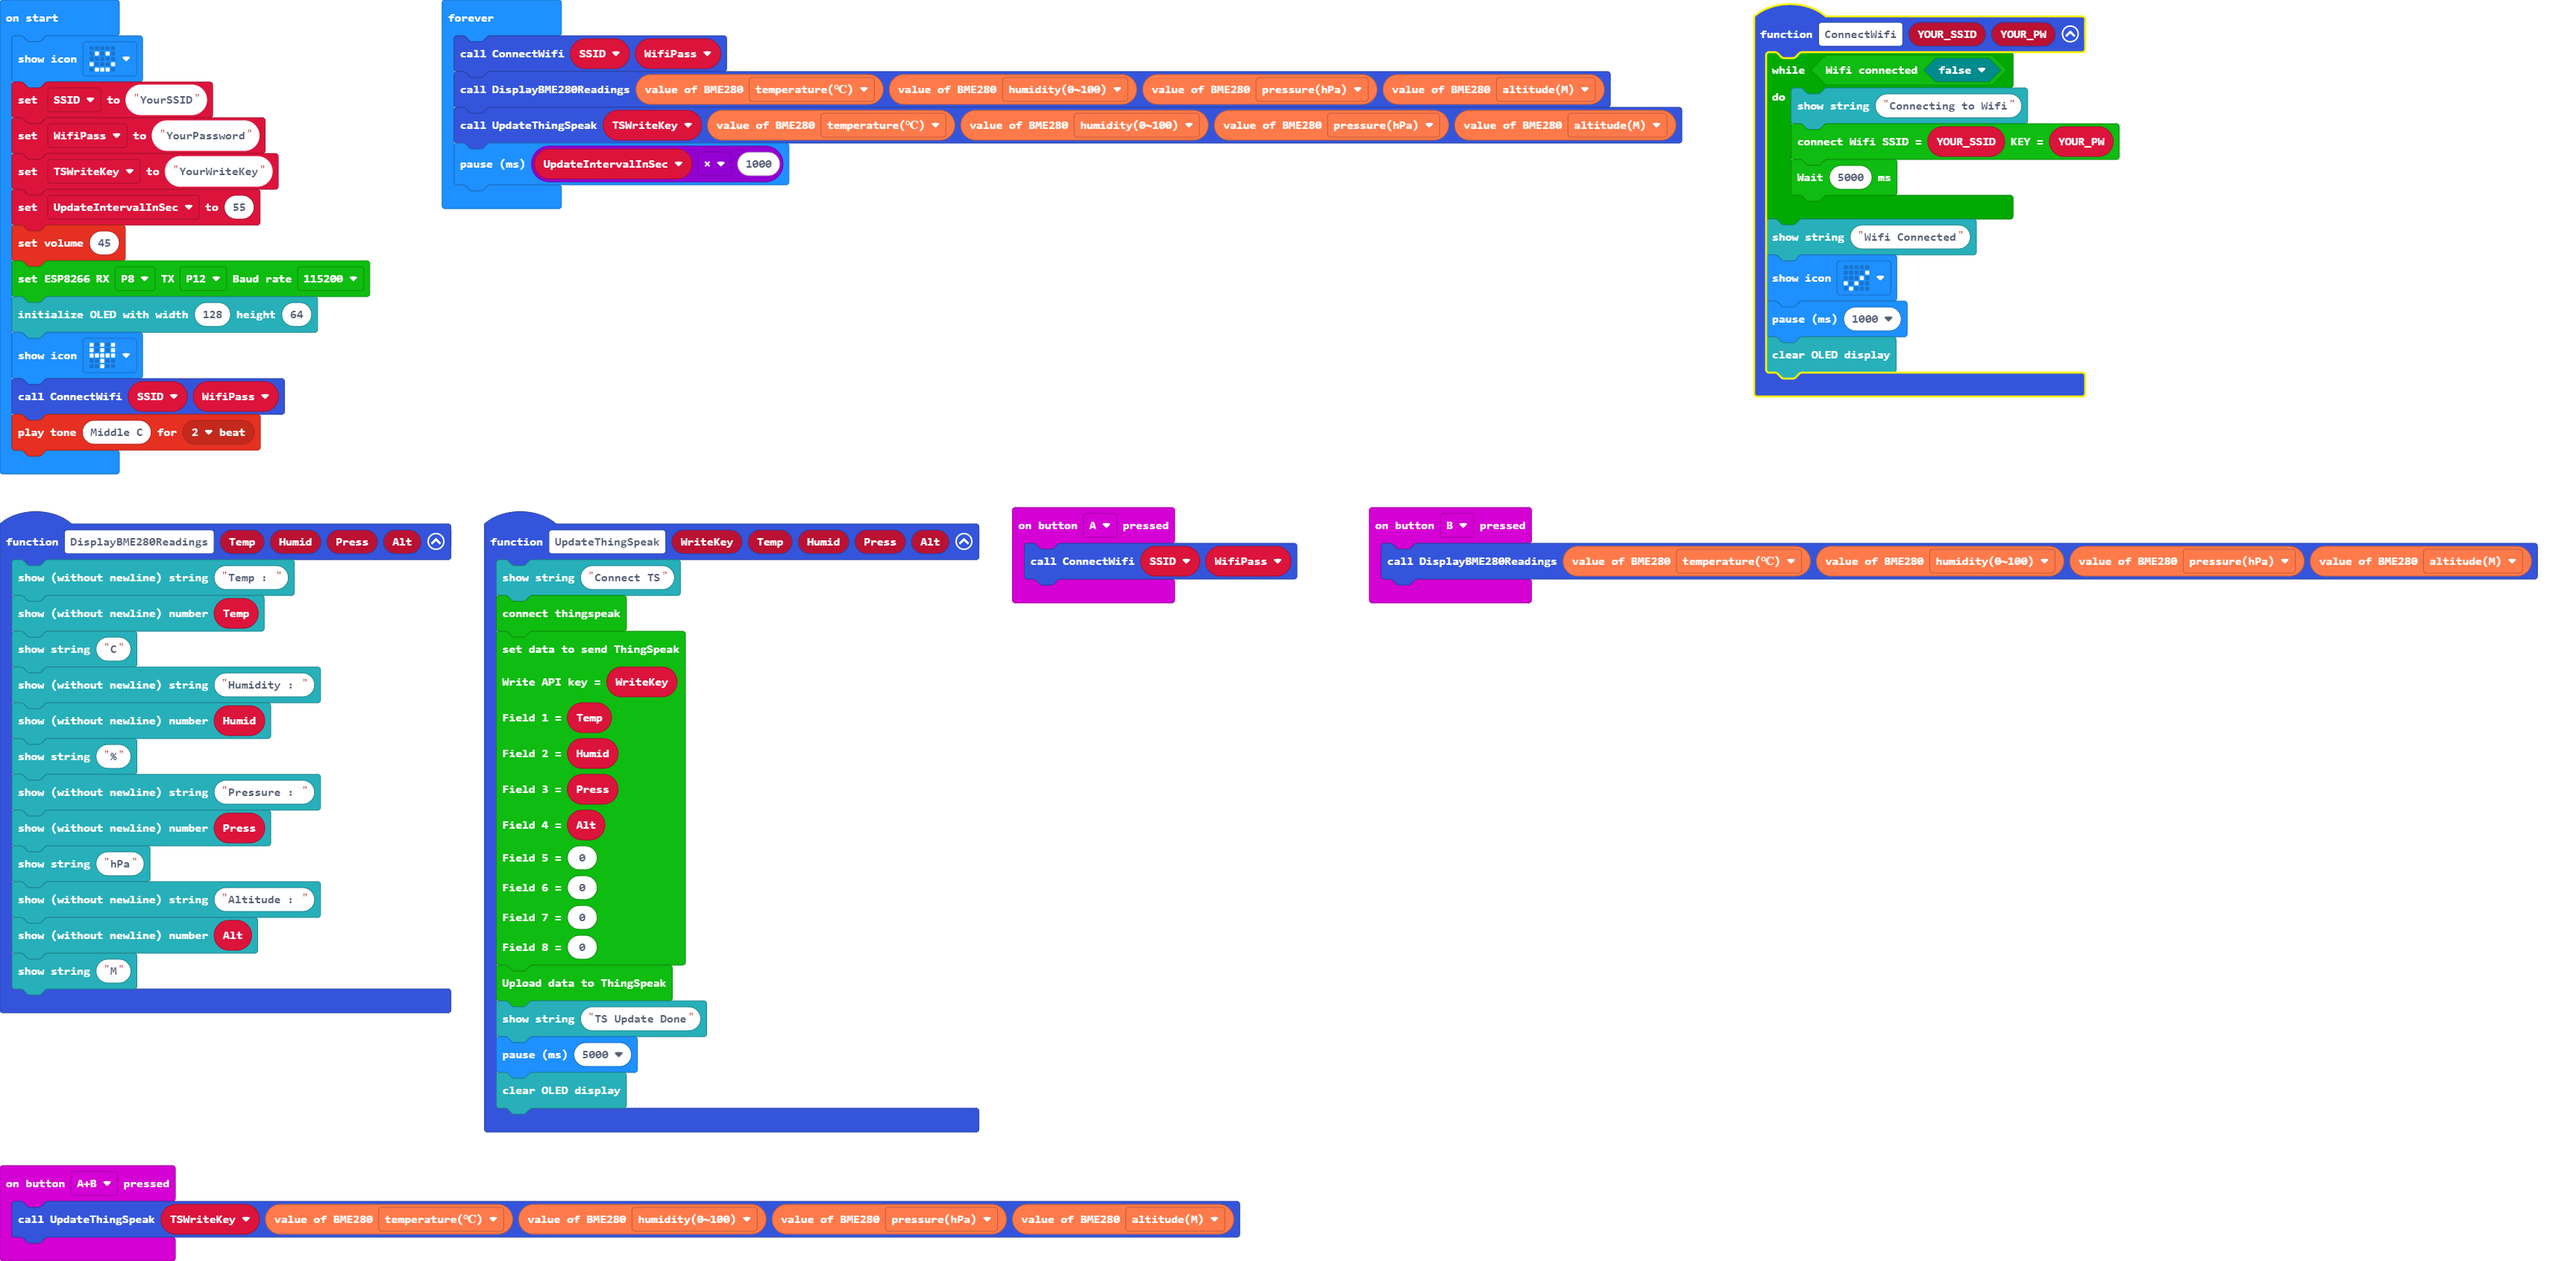
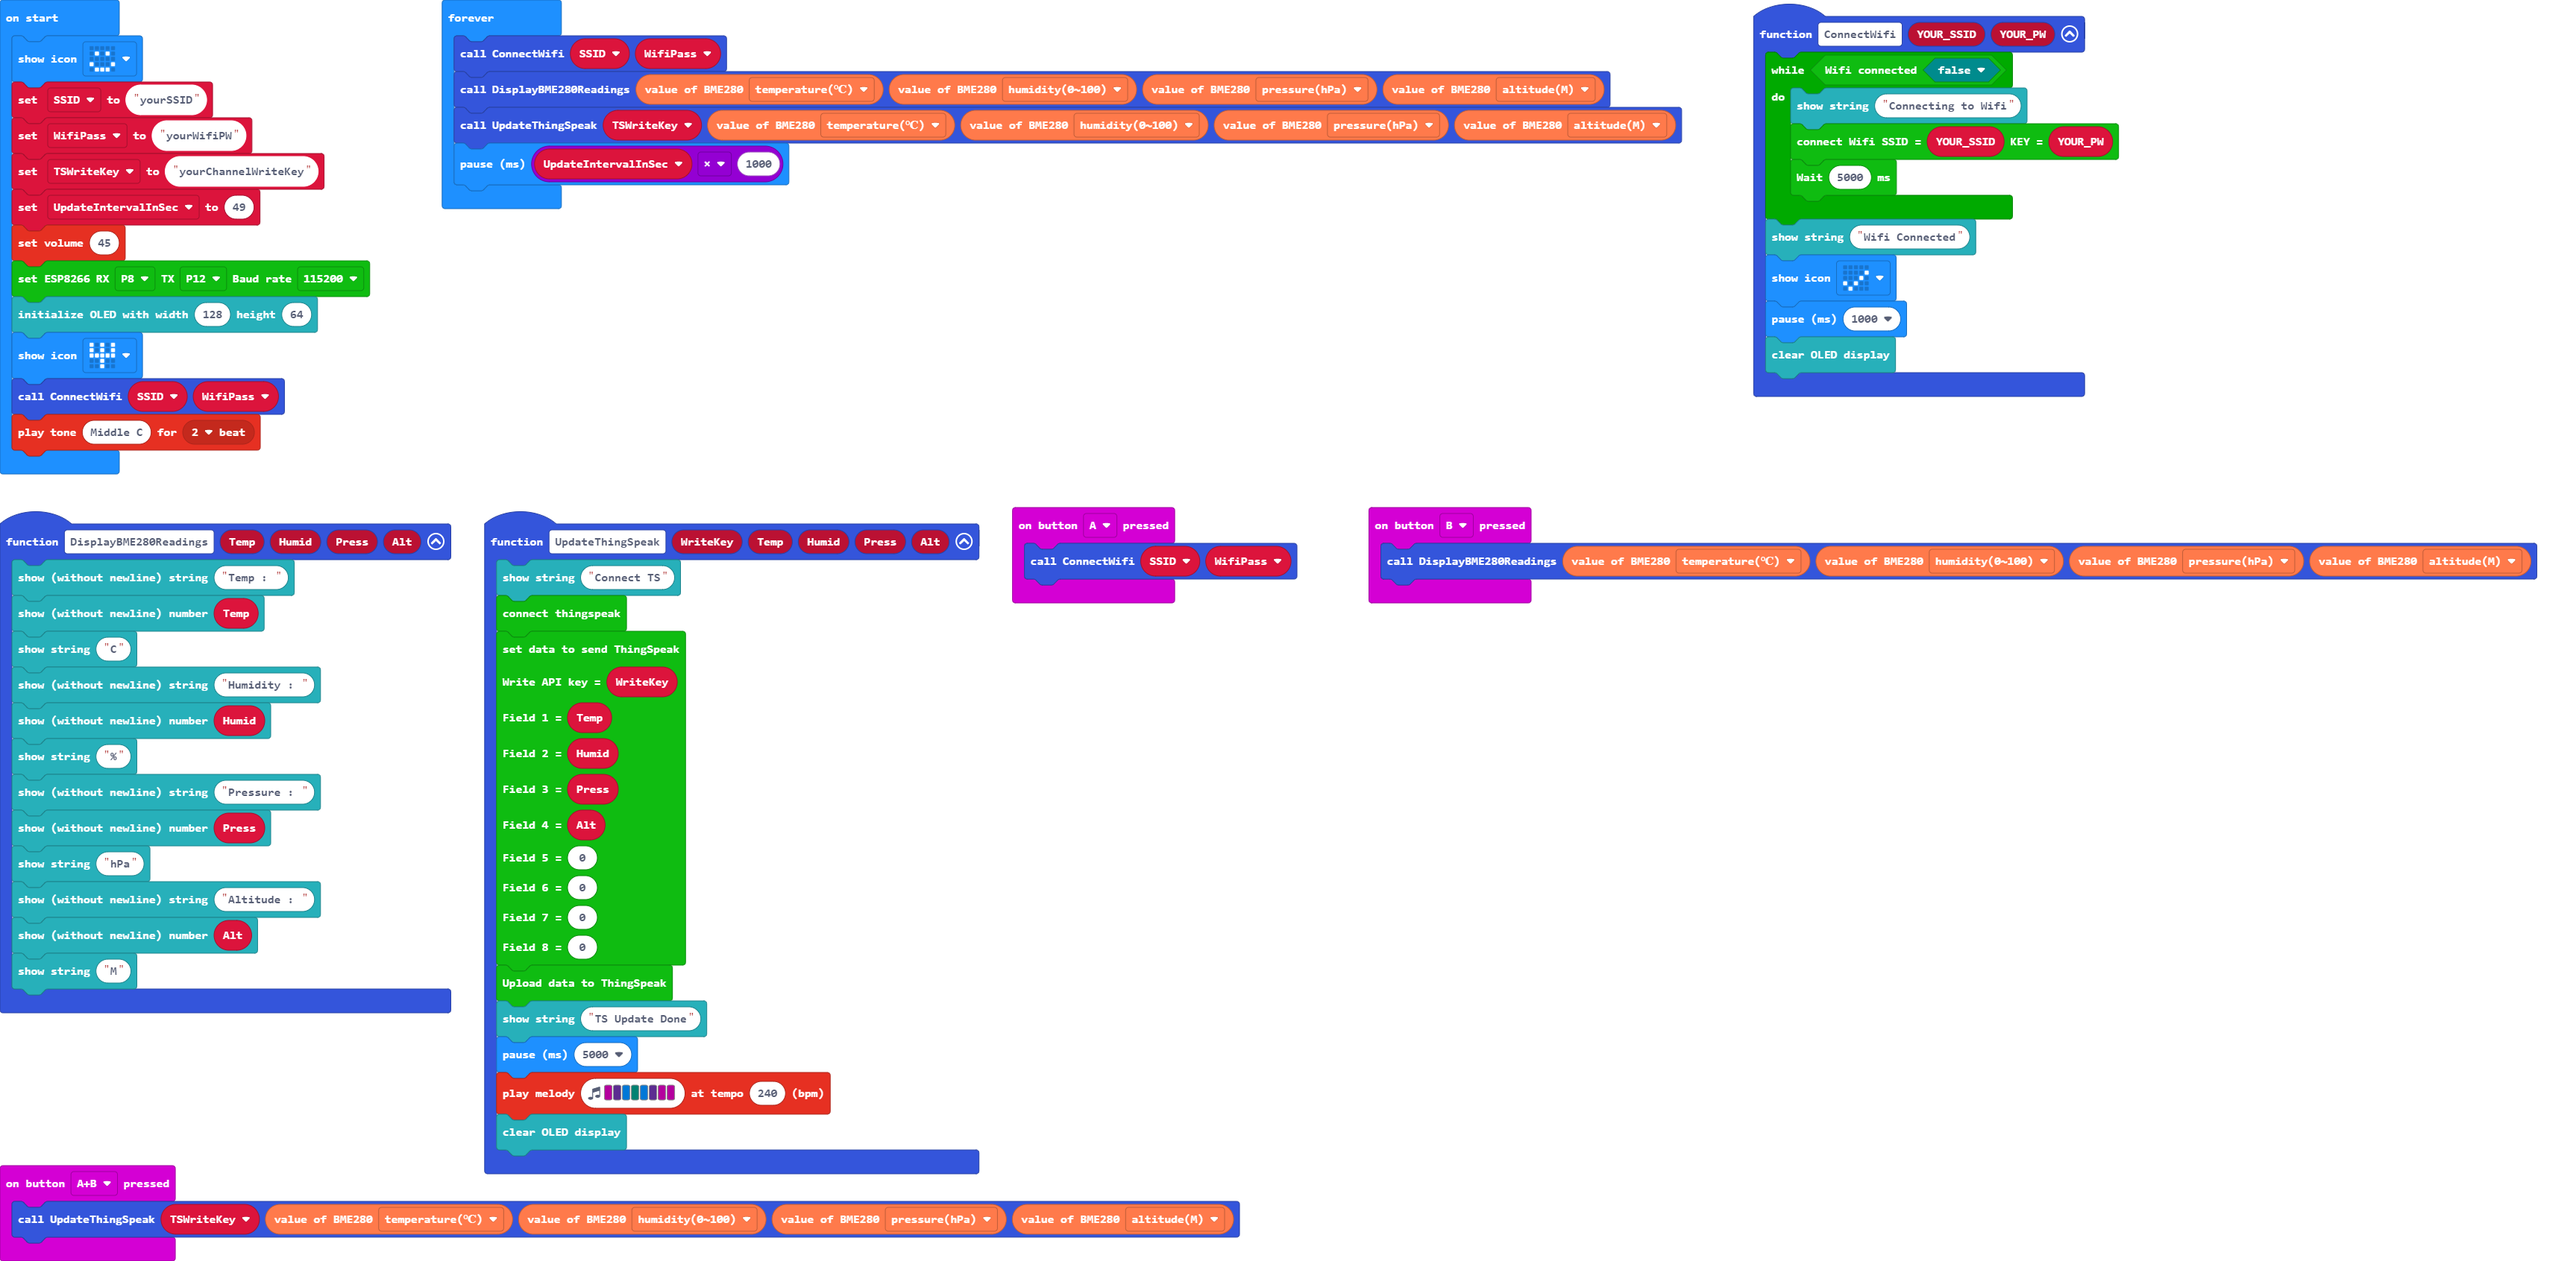
Adjusted update interval value to fit 1 minute, Added melody for Thingspeak update.

diff --git a/main.ts b/main.ts
@@ -40,6 +40,7 @@ function UpdateThingSpeak (WriteKey: string, Temp: number, Humid: number, Press:
     ESP8266_IoT.uploadData()
     OLED.writeStringNewLine("TS Update Done")
     basic.pause(5000)
+    music.playMelody("C D E F E D C C ", 240)
     OLED.clear()
 }
 input.onButtonPressed(Button.A, function () {
@@ -55,10 +56,10 @@ let TSWriteKey = ""
 let WifiPass = ""
 let SSID = ""
 basic.showIcon(IconNames.Happy)
-SSID = "YourSSID"
-WifiPass = "YourPassword"
-TSWriteKey = "YourWriteKey"
-let UpdateIntervalInSec = 55
+SSID = "yourSSID"
+WifiPass = "yourWifiPW"
+TSWriteKey = "yourChannelWriteKey"
+let UpdateIntervalInSec = 49
 music.setVolume(45)
 ESP8266_IoT.initWIFI(SerialPin.P8, SerialPin.P12, BaudRate.BaudRate115200)
 OLED.init(128, 64)
